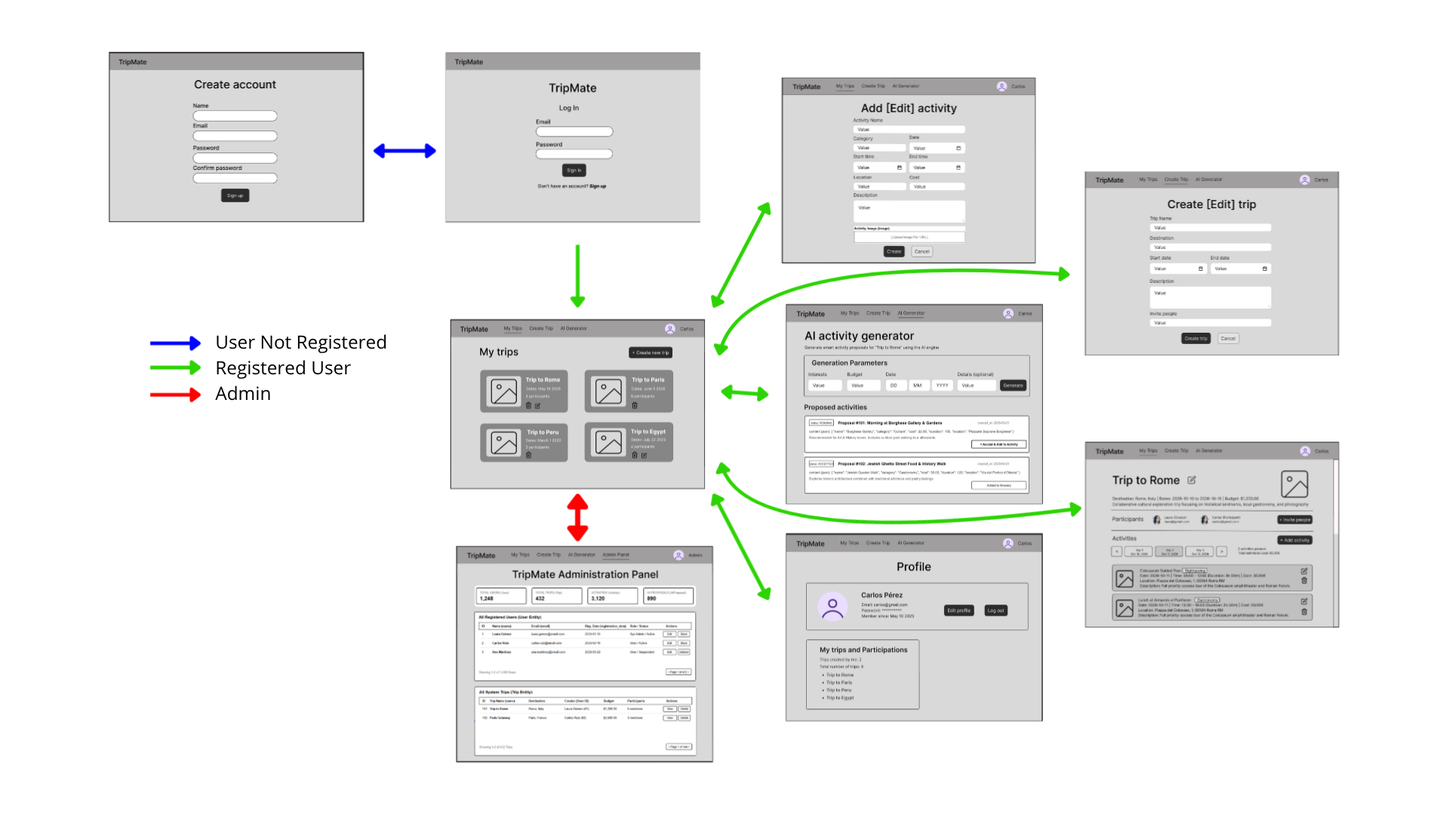
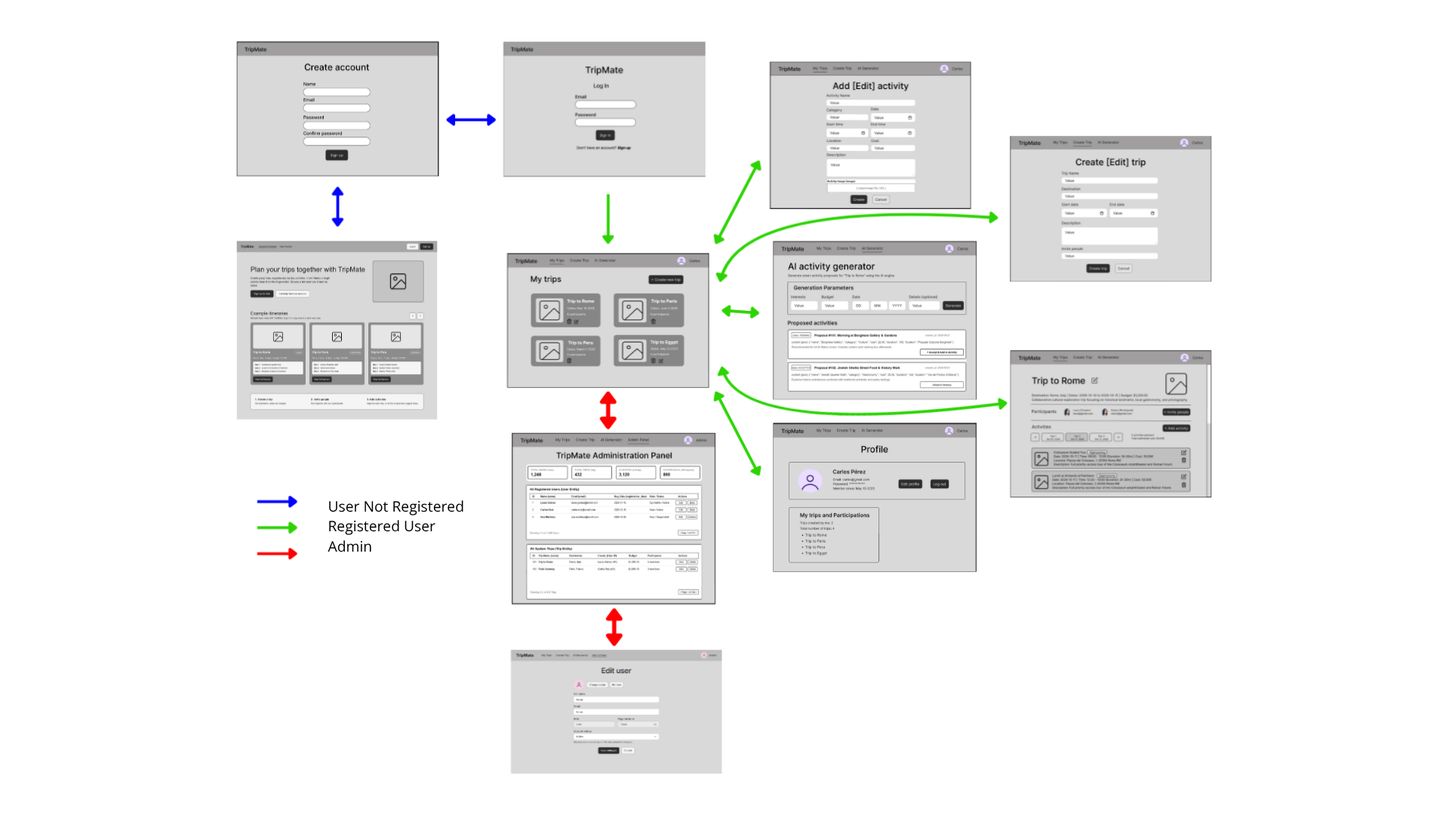
Update README.md with detailed project description and objectives.

diff --git a/README.md b/README.md
@@ -2,53 +2,66 @@
 
 ## Description
 
-**TripMate** is a web application that lets a group of people plan a trip together: create the trip, build its day-by-day itinerary through activities, invite other participants, and collaborate on the plan in real time. It also includes an AI assistant able to generate itinerary proposals based on the destination, dates, budget, and preferences of the group, which the user can review and accept before adding them to the trip. The project is initially developed as a monolithic application, designed to evolve in a second thesis project (TFG2) into a distributed services architecture.
+**TripMate** is a web application that lets a group of people plan a trip together: create the trip, build its day-by-day itinerary through activities, invite other participants, and collaborate on the plan. It includes an AI assistant able to generate itinerary proposals based on the destination, dates, budget, and preferences of the group, which the user can review and accept before adding them to the trip. Each trip can also have its own Telegram group, linked to the trip by a TripMate bot, so participants can talk about the trip in a messaging app they already use, receive their invitations there, and be notified when the plan changes. The project is initially developed as a monolithic application, designed to evolve in a second thesis project (TFG2) into a distributed services architecture.
+
+<p align="center">
+  <img src="images/MyTripsWireframe.png" alt="My Trips Wireframe" width="400"/>
+  <img src="images/TripDetailWireframe.png" alt="Trip detail Wireframe" width="400"/>
+</p>
+
+> **Note:** At this stage (Phase 2), only the functional and technical objectives of the application have been defined. Development has started, but the implementation is not functional yet.
 
 ## Objectives
 
-> **Note:** At this stage (Phase 1), only the functional and technical objectives of the application have been defined; implementation has not yet begun.
-
 ### Functional objectives
 
-The main functional objective is to provide a tool that lets a group of users organize a trip from start to finish without relying on spreadsheets or scattered chats, covering everything from registration and trip creation to collaborative itinerary building and AI-generated proposals.
+The main functional objective is to provide a tool that lets a group of users organize a trip from start to finish without relying on spreadsheets or scattered chats, covering everything from registration and trip creation to collaborative itinerary building, AI-generated proposals, and a group chat per trip connected to the plan.
 
 - Registration, login, and user profile management.
-- Creation, viewing, editing, and deletion of trips (name, destination, dates, budget, description).
-- Building a day-by-day itinerary through activities (location, schedule, cost, category).
+- Creation, viewing, editing, and deletion of trips (name, destination, dates, budget, description, cover image).
+- Building a day-by-day itinerary through activities (location, date, schedule, cost, category, image).
 - Inviting other users to a trip by email, with acceptance or rejection of the invitation.
 - Collaboration between several participants on the same itinerary, with differentiated creator and participant roles.
-- Automatic detection of conflicts in the plan (schedule overlaps, inconsistent dates, incompatible durations).
+- Automatic detection of conflicts in the plan (schedule overlaps, activities outside the trip dates, spending over budget).
 - Generation of itinerary proposals via AI based on the group's preferences, budget, and characteristics, with manual review and acceptance before they are added.
 - Visualization of trip spending through charts.
-- Administration panel for overseeing users and platform content.
+- A Telegram group for each trip, with invitations and notifications sent by a bot and access restricted to the trip's invited users.
+- Administration panel for managing users, moderating trips, and viewing platform metrics.
 
 ### Technical objectives
 
-From a technical standpoint, the project is designed as a modular monolith, with a relational data model and an integration with a language model for generating proposals, built so it can later be split into independent services in TFG2.
+From a technical standpoint, the application follows a Single Page Application (SPA) architecture: a frontend built with React and TypeScript that communicates through a REST API with a Spring Boot (Java) backend designed as a modular monolith, backed by a MySQL database, and packaged with Docker. It integrates external services (a language model for proposals, an email service, and the Telegram Bot API) and is built so it can later be split into independent services in TFG2. The selected optional parts are **static code analysis**, **AI integration**, and **integration with an instant messaging system**.
 
-- Modular monolithic architecture, organized by domain, designed for a future decomposition into services.
-- Relational data model with the entities User, Trip, Participation, Invitation, Activity, and AIProposal.
+- SPA architecture: modular monolithic backend in Java with Spring Boot, organized by domain, exposing a REST API documented with OpenAPI, and a responsive SPA frontend in React with TypeScript that consumes it; designed for a future decomposition into services.
+- Relational data model in MySQL with the entities User, Trip, Participation, Invitation, Activity, and AIProposal.
 - Role-based authentication and authorization (anonymous, registered, administrator; creator/participant within each trip).
-- Integration with a language model (LLM) via API to generate planning proposals.
-- Uploading and management of images associated with users, trips, and activities.
+- Integration with a language model (LLM) via API to generate and reorganize itinerary proposals.
+- Integration with the Telegram Bot API: account linking through deep links, one group per trip, invite links whose join requests are approved according to TripMate's permissions, and notifications about trip changes.
+- Uploading and management of images associated with users, trips, and activities, stored in the database.
 - Data visualization using a charting library on the frontend.
 - Integration with an email-sending service to deliver invitations to trip participants.
 - Implementation of a conflict-detection algorithm over the itinerary.
-- Setup of continuous integration, automated testing, and code quality analysis with Sonar.
-- Containerization of the application with Docker.
+- Quality and delivery: automated tests at every level, continuous integration and delivery, static code analysis with Sonar, packaging with Docker and Docker Compose, and deployment.
 
 ## Methodology
 
-Development is organized into the following phases:
+The project follows an iterative and incremental process based on the principles of the Agile Manifesto, applying some Extreme Programming (XP) and Kanban practices. Tasks are managed as GitHub Issues on a GitHub Project Kanban board. The code is managed with Git following GitHub Flow: each feature or fix is developed in its own branch and merged into `main` through a pull request. A new version (release) is published at the end of each development phase.
 
-| Phase   | Content                                                                                         | Dates            |
-| ------- | ----------------------------------------------------------------------------------------------- | ---------------- |
-| Phase 1 | Definition of features, screens, and analysis (this document)                                   | **September 15** |
-| Phase 2 | Repository setup, continuous integration, testing, and Sonar                                    | **October 1**    |
-| Phase 3 | Version 0.1 — basic functionality (users, trips, activities, itinerary) + Docker                | **November 1**   |
-| Phase 4 | Version 0.2 — intermediate functionality (invitations, participants, roles, conflict detection) | **December 1**   |
-| Phase 5 | Version 1.0 — advanced functionality (AI, notifications)                                        | **December 20**  |
-| Phase 6 | Writing the thesis report                                                                       | **January 15**   |
+- **Phase 1:** Definition of the application's features and screens, described in the [Detailed features](#detailed-features) and [Analysis](#analysis) sections.
+- **Phase 2:** Setup of the development technologies and tools, with quality controls that run periodically (automated tests, continuous integration, and static code analysis).
+- **Phases 3, 4, and 5:** Iterative and incremental development of the application. A release is published at the end of each phase (versions 0.1, 0.2, and 1.0).
+- **Phase 6:** Writing the thesis report.
+- **Phase 7:** Preparing and delivering the defense.
+
+| Phase   | Content                                                                                        | Start        | End              |
+| ------- | ---------------------------------------------------------------------------------------------- | ------------ | ---------------- |
+| Phase 1 | Definition of features, screens, and analysis (this document)                                  | Sep 1, 2026  | **Sep 15, 2026** |
+| Phase 2 | Repository setup, minimum functionality, automated tests, continuous integration, and Sonar    | Sep 15, 2026 | **Oct 1, 2026**  |
+| Phase 3 | Version 0.1 — basic functionality (B1–B8) + Docker and continuous delivery                     | Oct 1, 2026  | **Nov 1, 2026**  |
+| Phase 4 | Version 0.2 — intermediate functionality (I1–I6) + deployment                                  | Nov 1, 2026  | **Dec 1, 2026**  |
+| Phase 5 | Version 1.0 — advanced functionality (A1–A6: AI and Telegram integration) + database migration | Dec 1, 2026  | **Dec 20, 2026** |
+| Phase 6 | Writing the thesis report                                                                      | Dec 20, 2026 | **Jan 15, 2027** |
+| Phase 7 | Defense                                                                                        | TBD          | **TBD**          |
 
 ```mermaid
 gantt
@@ -57,61 +70,77 @@ gantt
     axisFormat  %d %b
     tickInterval 2week
     section Phase 1
-    Feature and screen definition        :p1, 2026-09-01, 2026-09-15
+    Feature and screen definition            :p1, 2026-09-01, 2026-09-15
     section Phase 2
-    Repository, CI and Sonar setup       :p2, after p1, 2026-10-01
+    Repository, tests, CI and Sonar setup    :p2, after p1, 2026-10-01
     section Phase 3
-    Version 0.1 — basic functionality    :p3, after p2, 2026-11-01
+    Version 0.1 — basic functionality        :p3, after p2, 2026-11-01
     section Phase 4
     Version 0.2 — intermediate functionality :p4, after p3, 2026-12-01
     section Phase 5
-    Version 1.0 — advanced functionality :p5, after p4, 2026-12-20
+    Version 1.0 — advanced functionality     :p5, after p4, 2026-12-20
     section Phase 6
-    Writing the thesis report            :p6, after p5, 2027-01-15
+    Writing the thesis report                :p6, after p5, 2027-01-15
 ```
 
 ## Detailed features
 
-### Basic functionality
+Each feature has an identifier so that it can be traced to its automated tests.
 
-_Aimed at registered users (and the administrator, where applicable)._
+### Basic functionality (version 0.1)
 
-- Registration, login, logout, and profile management.
-- Creation, viewing, editing, and deletion of trips.
-- Creation, viewing, editing, and deletion of activities within a trip's itinerary.
+| ID  | Feature                                                                                                                                                  | User type                 |
+| --- | -------------------------------------------------------------------------------------------------------------------------------------------------------- | ------------------------- |
+| B1  | Browse the public home page with example itineraries (preview only; sample trips created by the administrator).                                          | Anonymous                 |
+| B2  | Register a new account and log in.                                                                                                                       | Anonymous                 |
+| B3  | Log out, and view and edit one's own profile (name, email, password, avatar).                                                                            | Registered                |
+| B4  | Create, view, edit, and delete one's own trips, including a cover image.                                                                                 | Registered (trip creator) |
+| B5  | Create, view, edit, and delete activities in a trip's itinerary, including an image, and browse the itinerary day by day.                                | Registered (trip creator) |
+| B6  | Conflict detection: overlapping activities on the same day, activities outside the trip's date range, and total activity cost exceeding the trip budget. | Registered (trip members) |
+| B7  | User management: list and search users, edit their account details, and block or unblock accounts.                                                       | Administrator             |
+| B8  | Trip moderation: list and search all trips, view any trip's details, and delete inappropriate trips.                                                     | Administrator             |
 
-### Intermediate functionality
+### Intermediate functionality (version 0.2)
 
-_Aimed at registered users, within the context of a shared trip._
+| ID  | Feature                                                                                                                                        | User type                      |
+| --- | ---------------------------------------------------------------------------------------------------------------------------------------------- | ------------------------------ |
+| I1  | Invite users to a trip by email; the invited person receives an email with a link to respond.                                                  | Trip creator                   |
+| I2  | Accept or reject an invitation, from the email link or from the pending invitations section in "My Trips".                                     | Registered (invited user)      |
+| I3  | Manage participants: the creator can view and remove participants; a participant can leave the trip.                                           | Trip creator, trip participant |
+| I4  | Collaborative itinerary: participants create activities and edit or delete their own; the creator can edit or delete any activity of the trip. | Trip creator, trip participant |
+| I5  | Spending charts on the trip page (spending by category against the budget, cumulative spending per day).                                       | Trip creator, trip participant |
+| I6  | Platform metrics dashboard (total users, trips, activities, and, from version 1.0, AI requests).                                               | Administrator                  |
 
-- Inviting participants to a trip by email; accepting or rejecting the invitation.
-- Managing participants by the trip's creator (adding, removing).
-- Collaboration between several participants on the same itinerary.
-- Conflict detection: overlapping activities, out-of-range dates, incompatible durations, temporally impossible sequences.
+### Advanced functionality (version 1.0)
 
-### Advanced functionality
+| ID  | Feature                                                                                                                                                                                                                                                                      | User type                      |
+| --- | ---------------------------------------------------------------------------------------------------------------------------------------------------------------------------------------------------------------------------------------------------------------------------- | ------------------------------ |
+| A1  | Generation of itinerary proposals via AI, based on destination, dates, budget, and the group's preferences, with manual review and acceptance before the proposed activities are added.                                                                                      | Trip creator, trip participant |
+| A2  | Reorganization of an existing itinerary via AI, taking already-detected conflicts into account, with manual review and acceptance.                                                                                                                                           | Trip creator                   |
+| A3  | Connect a Telegram account from the user profile (through a one-time link to the TripMate bot) and disconnect it.                                                                                                                                                            | Registered                     |
+| A4  | Create the trip's Telegram group with a single button: Telegram opens to create the group with the TripMate bot as administrator, and the bot links the group to the trip.                                                                                                   | Trip creator                   |
+| A5  | Invitations through Telegram: invited users with a connected account receive a private message from the bot with the group invite link and a link to the trip. The bot approves join requests only from invited users or participants, and removes users who leave the trip. | Trip creator, invited user     |
+| A6  | Notifications in the trip's Telegram group when the dates, the itinerary, or the participants change.                                                                                                                                                                        | Trip participants              |
 
-_Aimed at registered users and, in its oversight capacity, the administrator._
-
-- Generation of itinerary proposals via AI, based on destination, dates, budget, and the group's preferences, with manual review and acceptance.
-- Modification or reorganization of an existing itinerary via AI, taking already-detected conflicts into account.
-- Administration panel: oversight of users and platform content.
+The Telegram integration is optional for users: every feature of the trip works without a Telegram account.
 
 ## Analysis
 
 ### Screens and navigation
 
-| Screen                          | Description                                  | Leads to                                  |
-| :------------------------------ | :------------------------------------------- | :---------------------------------------- |
-| **Log In**                      | Public authentication form                   | Create Account, My Trips                  |
-| **Create Account**              | User registration form                       | Log In, My Trips                          |
-| **My Trips**                    | Main dashboard with user's trips             | Trip Details, Create/Edit Trip, Profile   |
-| **Create / Edit Trip**          | Form to initialize or update a trip          | My Trips, Trip Details                    |
-| **Trip Details & Itinerary**    | Core trip hub and day-by-day plan            | Add/Edit Activity, AI Generator, My Trips |
-| **Add / Edit Activity**         | Form/Modal for itinerary activities          | Trip Details                              |
-| **AI Activity Generator**       | AI proposal generator and acceptance         | Trip Details                              |
-| **User Profile**                | User account settings and personal trip list | My Trips, Log In, Admin Panel (if admin)  |
-| **System Administration Panel** | Global platform metrics and moderation       | User Profile, Trip Details                |
+| Screen                          | Description                                                                              | Leads to                                                                         |
+| :------------------------------ | :--------------------------------------------------------------------------------------- | :------------------------------------------------------------------------------- |
+| **Public Home**                 | Landing page with example itineraries                                                    | Log In, Create Account                                                           |
+| **Log In**                      | Public authentication form                                                               | Create Account, My Trips                                                         |
+| **Create Account**              | User registration form                                                                   | Log In, My Trips                                                                 |
+| **My Trips**                    | Main dashboard with the user's trips and pending invitations                             | Trip Details, Create/Edit Trip, User Profile                                     |
+| **Create / Edit Trip**          | Form to initialize or update a trip                                                      | My Trips, Trip Details                                                           |
+| **Trip Details & Itinerary**    | Core trip hub: summary, participants, day-by-day plan, conflicts, charts, Telegram group | Add/Edit Activity, AI Generator, Create/Edit Trip, My Trips, Telegram (external) |
+| **Add / Edit Activity**         | Form/Modal for itinerary activities                                                      | Trip Details                                                                     |
+| **AI Activity Generator**       | AI proposal generator and acceptance                                                     | Trip Details                                                                     |
+| **User Profile**                | User account settings, personal trip list, and Telegram connection                       | My Trips, Public Home (log out), Admin Panel (if admin), Telegram (external)     |
+| **System Administration Panel** | Global platform metrics, user management, and trip moderation                            | Edit User, Trip Details, User Profile                                            |
+| **Edit User**                   | Administrator form to edit a user's account details and status                           | System Administration Panel                                                      |
 
 ### Navigation Flow Diagram
 
@@ -119,77 +148,97 @@ The following diagram illustrates the overall user experience and navigation flo
 
 <img src="images/WireframesDiagram.png" alt="TripMate Navigation Flow Diagram" width="800"/>
 
-#### 1. Log In
+#### 1. Public Home
+
+The public landing page shown to visitors who are not logged in. It introduces **TripMate** with a short pitch and a header with "Log In" and "Sign Up" buttons, displays a set of example itineraries (destination, duration, budget and a day-by-day preview) to illustrate how the app works, and includes a brief "how it works" section. Any attempt to open a full itinerary redirects the visitor to log in or create an account.
+
+<img src="images/PublicHomeWireframe.png" alt="Public home Wireframe" width="500"/>
+
+#### 2. Log In
 
 The initial public screen for user authentication. It features a simple, centered interface displaying the **TripMate** brand logo, fields for email and password input, a primary "Sign In" button, and a quick-navigation link allowing unauthenticated users to switch to the account registration page.
 
 <img src="images/LoginWireframe.png" alt="Log in Wireframe" width="500"/>
 
-#### 2. Create Account
+#### 3. Create Account
 
 The public user onboarding page. It provides a clean registration form containing fields for full name, email, password, and password confirmation, along with a "Sign Up" action button. It enables anonymous visitors to create a personal account and access the application.
 
 <img src="images/RegisterWireframe.png" alt="Register Wireframe" width="500"/>
 
-#### 3. My Trips
+#### 4. My Trips
 
-The primary dashboard for authenticated users after logging in. It includes the global application header and displays a grid of existing trip cards (showing destination, dates, and participant count), each with quick actions to view or manage the trip, alongside a prominent "+ Create new trip" button.
+The primary dashboard for authenticated users after logging in. It includes the global application header and displays a grid of existing trip cards (showing destination, dates, and participant count), each with quick actions to view or manage the trip, alongside a prominent "+ Create new trip" button. A "Pending invitations" section lists the trips the user has been invited to, with "Accept" and "Reject" buttons.
 
 <img src="images/MyTripsWireframe.png" alt="My Trips Wireframe" width="500"/>
 
-#### 4. Create / Edit Trip
+#### 5. Create / Edit Trip
 
-A structured form interface used to initialize a new trip or update an existing one. It collects essential trip attributes including the trip name, destination, start and end dates, total budget, description, and an input field to invite initial collaborators.
+A structured form interface used to initialize a new trip or update an existing one. It collects essential trip attributes including the trip name, destination, start and end dates, total budget, description, cover image, and, from version 0.2, an input field to invite initial collaborators by email.
 
 <img src="images/TripFormWireframe.png" alt="Trip form Wireframe" width="500"/>
 
-#### 5. Trip Details & Itinerary
+#### 6. Trip Details & Itinerary
 
-The main control hub for a specific trip. The top section summarizes core trip details (destination, dates, budget) and displays participant avatars with an invite button. The bottom section features an interactive day-by-day tab selector to filter and view the chronological list of scheduled activities for the selected date.
+The main control hub for a specific trip. The top section summarizes core trip details (destination, dates, budget) and displays participant avatars with an invite button. The middle section features an interactive day-by-day tab selector to filter and view the chronological list of scheduled activities for the selected date, with warnings for any detected conflicts. A spending section shows the trip's charts. From version 1.0, a Telegram button lets the creator create the trip's Telegram group and lets participants open it.
 
 <img src="images/TripDetailWireframe.png" alt="Trip detail Wireframe" width="500"/>
 
-#### 6. Add / Edit Activity
+#### 7. Add / Edit Activity
 
-A modal or dedicated form interface for managing individual activities within a trip. It captures granular attributes such as activity name, category, date, start/end times, calculated duration, estimated cost, location, description, and an optional image upload.
+A modal or dedicated form interface for managing individual activities within a trip. It captures granular attributes such as activity name, category, date, start/end times, estimated cost, location, description, and an optional image upload. The duration is calculated automatically from the start and end times.
 
 <img src="images/ActivityFormWireframe.png" alt="Activity form Wireframe" width="500"/>
 
-#### 7. AI Activity Generator
+#### 8. AI Activity Generator
 
 An intelligent planning module that leverages an AI engine to generate custom activity proposals. Users specify preferences (category, budget range, target date), and the system returns structured proposal cards (`AIProposal`) that can be reviewed and added directly to the trip itinerary with a single click.
 
 <img src="images/AIGeneratorWireframe.png" alt="AI generator Wireframe" width="500"/>
 
-#### 8. User Profile
+#### 9. User Profile
 
-The account management view displaying the user's personal details (avatar, name, email, account creation date). It includes action buttons to edit profile information or log out, as well as an organized overview of the user's created trips and active group participations.
+The account management view displaying the user's personal details (avatar, name, email, account creation date). It includes action buttons to edit profile information or log out, as well as an organized overview of the user's created trips and active group participations. From version 1.0, it also shows the Telegram connection status, with a "Connect Telegram" or "Disconnect" button.
 
 <img src="images/ProfileWireframe.png" alt="Profile Wireframe" width="500"/>
 
-#### 9. System Administration Panel
+#### 10. System Administration Panel
 
-A high-level oversight dashboard accessible exclusively to system administrators. It displays global platform metrics (total users, trips, activities, and AI requests) and provides searchable data tables to manage registered users and moderate platform-wide trips.
+A high-level oversight dashboard accessible exclusively to the system administrator. It displays global platform metrics (total users, trips, activities, and AI requests) and provides searchable data tables to manage registered users and moderate platform-wide trips. In the users table, the "Edit" button redirects the administrator to the Edit User screen. In the trips table, the "View" button redirects to the Trip Details & Itinerary page of the selected trip, where the administrator can review its full information and activities, and a "Delete" button removes inappropriate trips.
 
 <img src="images/AdminPanelWireframe.png" alt="Admin panel Wireframe" width="500"/>
 
+#### 11. Edit User
+
+A form accessible only to the administrator, where a user's account details (name, email, avatar) and status (active or blocked) can be updated. Blocked users cannot log in. The administrator role cannot be assigned from this form, since the application has a single administrator defined in the configuration.
+
+<img src="images/EditUserWireframe.png" alt="Edit user Wireframe" width="500"/>
+
 ### Entities
 
-| Entity        | Main attributes                                                                                       | Relationship                                                    | Cardinality                                                                                                                 |
-| ------------- | ----------------------------------------------------------------------------------------------------- | --------------------------------------------------------------- | --------------------------------------------------------------------------------------------------------------------------- |
-| User          | id, name, email, password (hash), avatar, registration_date                                           | creator of Trips; participates in Trips via Participation       | 1:N with Trip (creator) · N:M with Trip (via Participation)                                                                 |
-| Trip          | id, name, destination, start_date, end_date, budget, description, cover_image                         | created by a User; has Invitations, Activities, and AIProposals | 1:N with User (creator) · N:M with User (via Participation) · 1:N with Invitation · 1:N with Activity · 1:N with AIProposal |
-| Participation | trip_id, user_id, role (creator/participant), joined_at                                               | relates User and Trip                                           | N:1 with User · N:1 with Trip                                                                                               |
-| Invitation    | id, trip_id, invited_email, status, sent_at                                                           | belongs to a Trip                                               | N:1 with Trip                                                                                                               |
-| Activity      | id, trip_id, name, description, location, date, start_time, end_time, duration, cost, category, image | belongs to a Trip                                               | N:1 with Trip                                                                                                               |
-| AIProposal    | id, trip_id, type, content (json), status, created_at                                                 | belongs to a Trip                                               | N:1 with Trip                                                                                                               |
+| Entity        | Main attributes                                                                                                                                                          | Relationship                                                                                                                          | Cardinality                                                                                                                                                                                     |
+| ------------- | ------------------------------------------------------------------------------------------------------------------------------------------------------------------------ | ------------------------------------------------------------------------------------------------------------------------------------- | ----------------------------------------------------------------------------------------------------------------------------------------------------------------------------------------------- |
+| User          | id, name, email, password (hash), avatar, role (USER/ADMIN), status (ACTIVE/BLOCKED), registration_date, telegram_user_id, telegram_link_token, telegram_link_expires_at | creator of Trips; participates in Trips via Participation; author of Activities; sends and receives Invitations; requests AIProposals | 1:N with Trip (creator) · N:M with Trip (via Participation) · 1:N with Activity (author) · 1:N with Invitation (inviter) · 1:N with Invitation (invited user) · 1:N with AIProposal (requester) |
+| Trip          | id, creator_id, name, destination, start_date, end_date, budget, description, cover_image, created_at, telegram_group_id, telegram_invite_link                           | created by a User; has Participations, Invitations, Activities, and AIProposals                                                       | N:1 with User (creator) · N:M with User (via Participation) · 1:N with Invitation · 1:N with Activity · 1:N with AIProposal                                                                     |
+| Participation | id, trip_id, user_id, joined_at                                                                                                                                          | relates a Trip with each User who joined it by accepting an invitation (the creator is identified by Trip.creator_id)                 | N:1 with User · N:1 with Trip                                                                                                                                                                   |
+| Invitation    | id, trip_id, inviter_id, invited_email, invited_user_id, token, status (PENDING/ACCEPTED/REJECTED), sent_at, responded_at                                                | belongs to a Trip; sent by a User; addressed to an email, linked to a User when that email is registered                              | N:1 with Trip · N:1 with User (inviter) · N:1 with User (invited, optional)                                                                                                                     |
+| Activity      | id, trip_id, author_id, name, description, location, date, start_time, end_time, cost, category, image                                                                   | belongs to a Trip; created by a User                                                                                                  | N:1 with Trip · N:1 with User (author)                                                                                                                                                          |
+| AIProposal    | id, trip_id, requested_by, type (GENERATION/REORGANIZATION), content (json), status (PENDING/ACCEPTED/REJECTED), created_at                                              | belongs to a Trip; requested by a User                                                                                                | N:1 with Trip · N:1 with User (requester)                                                                                                                                                       |
+
+Notes:
+
+- The activity duration is not stored; it is calculated from `start_time` and `end_time`.
+- The Telegram attributes are optional (empty until the user connects Telegram or the creator creates the trip's group) and are used from version 1.0.
+- `telegram_link_token` is a one-time code with an expiration date, used to link a TripMate account with a Telegram account through the bot.
 
 ### User permissions
 
-- **Anonymous**: browsing the public page, registration, and login.
-- **Registered — trip creator**: full CRUD on the trip, management of participants and invitations, itinerary management.
-- **Registered — trip participant**: viewing the trip, creating and editing activities; can only delete activities they created themselves, or that the trip's creator created.
-- **Administrator**: user account management, trip moderation, access to platform-wide statistics.
+- **Anonymous**: browsing the public home page and its example itineraries (preview only), registration, and login.
+- **Registered (any user)**: managing their own profile, creating trips, accepting or rejecting the invitations they receive, and connecting or disconnecting their Telegram account.
+- **Registered — trip creator** (owner of the trip): full CRUD on the trip; inviting and removing participants; creating, editing, and deleting any activity of the trip; requesting and accepting AI generation and reorganization proposals; creating the trip's Telegram group.
+- **Registered — trip participant**: viewing the trip and its charts; creating activities and editing or deleting only the activities they created; requesting and accepting AI generation proposals; leaving the trip; joining the trip's Telegram group.
+- **Administrator**: a single administrator whose credentials (with an encrypted password) are defined in a configuration file. Can manage user accounts (edit details, block or unblock), moderate trips (view and delete any trip), and access platform-wide metrics.
+- **Telegram group access**: only the trip creator can link a Telegram group to the trip. The bot approves join requests only from users who are participants of the trip or have been invited to it, and removes from the group users who leave or are removed from the trip.
 
 ### Images
 
@@ -208,17 +257,23 @@ Email sending, used for trip invitations: when the creator invites a user, the s
 
 ### Advanced algorithm or query
 
-Automatic conflict detection in a trip's itinerary. When an activity is created or modified, the system checks:
+Automatic conflict detection in a trip's itinerary. When an activity is created or modified, or when the trip's dates or budget change, the system checks:
 
 - Schedule overlaps between activities on the same day.
-- Activity dates outside the trip's date range.
-- Durations inconsistent with the given start and end times.
+- Activity dates outside the trip's date range (for example, after the trip dates are edited).
+- Total cost of the activities exceeding the trip's budget.
 
 Detected conflicts are shown to participants and are also taken into account when the AI generates or reorganizes an itinerary proposal.
 
 ## Tracking
 
-- GitHub Project: [https://github.com/users/ruben730/projects/1](https://github.com/users/ruben730/projects/1)
+- GitHub Project: [https://github.com/orgs/codeurjc-students/projects/46](https://github.com/orgs/codeurjc-students/projects/46)
+
+## AI Tools Usage
+
+- **Phase 1:** Claude (Anthropic, Claude Opus 5.5, chat) was used to compare instant messaging platforms (WhatsApp and Telegram) for the optional instant messaging part, to design the Telegram integration and to review this README against the TFG guidelines.
+
+Detailed information about each use of AI tools is available in [AI_USAGE.md](AI_USAGE.md).
 
 ## Author
 
